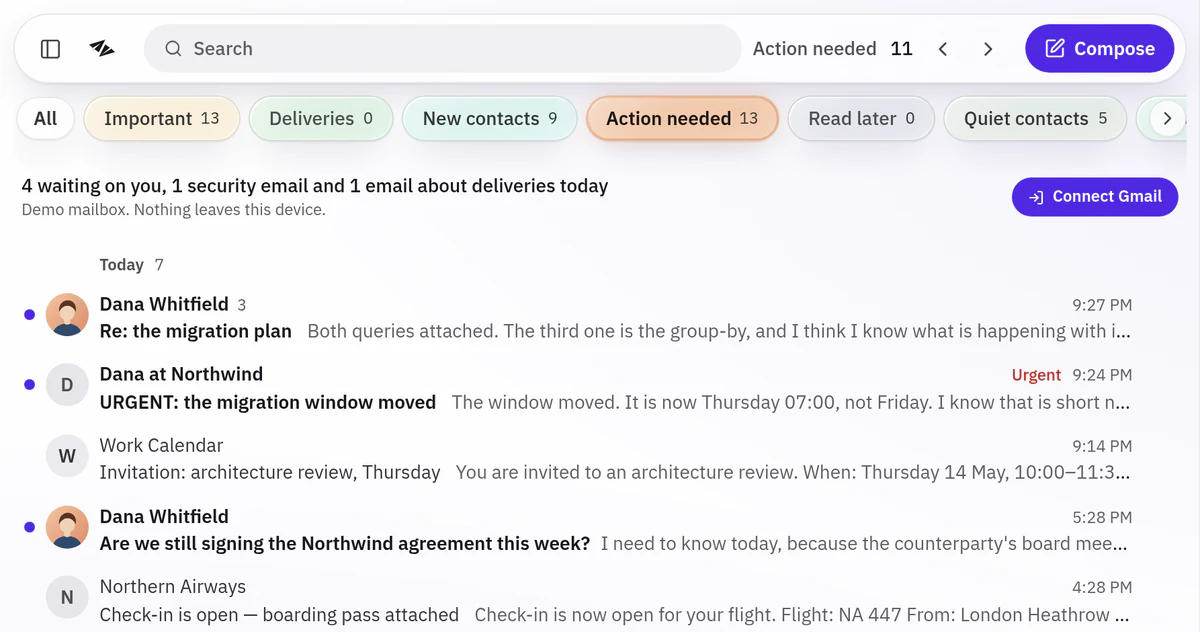
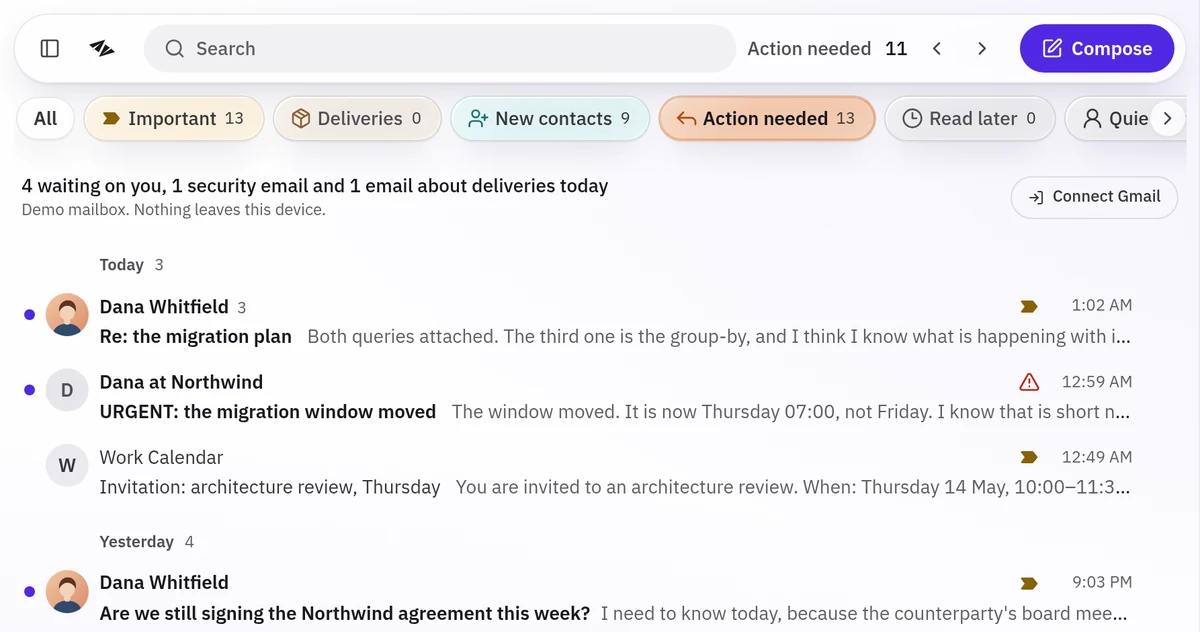
[docs] Refresh README screenshots
Retake the hero, buckets and phone shots (light and dark) from a production
build of master db6a5f3 in demo mode, same framing and dimensions as before:
smart filter icons, new filter colours, frosted menus, no glow on active chips.
Alt text updated where what's shown changed. Icons unchanged.

diff --git a/README.md b/README.md
@@ -11,7 +11,7 @@ Gmail, but it sorts the noise out for you and shows its working.
 
 <picture>
   <source media="(prefers-color-scheme: dark)" srcset="docs/images/hero-dark.webp">
-  <img src="docs/images/hero-light.webp" width="1600" alt="Winnow's demo inbox on the desktop: smart filter pills (Important, Deliveries, New contacts, Action needed) above a one-line summary of what's waiting, the message list with a copy-code chip and Urgent tags, and an open message whose &quot;Why it's here&quot; section explains each filter it landed in">
+  <img src="docs/images/hero-light.webp" width="1600" alt="Winnow's demo inbox on the desktop: smart filter pills with their icons (Important, Deliveries, New contacts, Action needed) above a one-line summary of what's waiting, the message list with a copy-code chip and urgent warning icons, and an open message whose &quot;Why it's here&quot; section explains each filter it landed in">
 </picture>
 
 I made this because Gmail kept burying mail I actually needed. Not spam, not
@@ -59,7 +59,7 @@ xattr -dr com.apple.quarantine /Applications/Winnow.app
 <p align="center">
   <picture>
     <source media="(prefers-color-scheme: dark)" srcset="docs/images/phone-dark.webp">
-    <img src="docs/images/phone-light.webp" width="300" alt="Winnow's demo inbox on a phone: search at the top, the message list, smart filter pills floating above a glass dock with Inbox, Sent and a compose button">
+    <img src="docs/images/phone-light.webp" width="300" alt="Winnow's demo inbox on a phone: search at the top, the message list with a copy-code chip, and smart filter pills floating above a glass dock with Inbox, Sent, More mailboxes and a compose button">
   </picture>
 </p>
 
